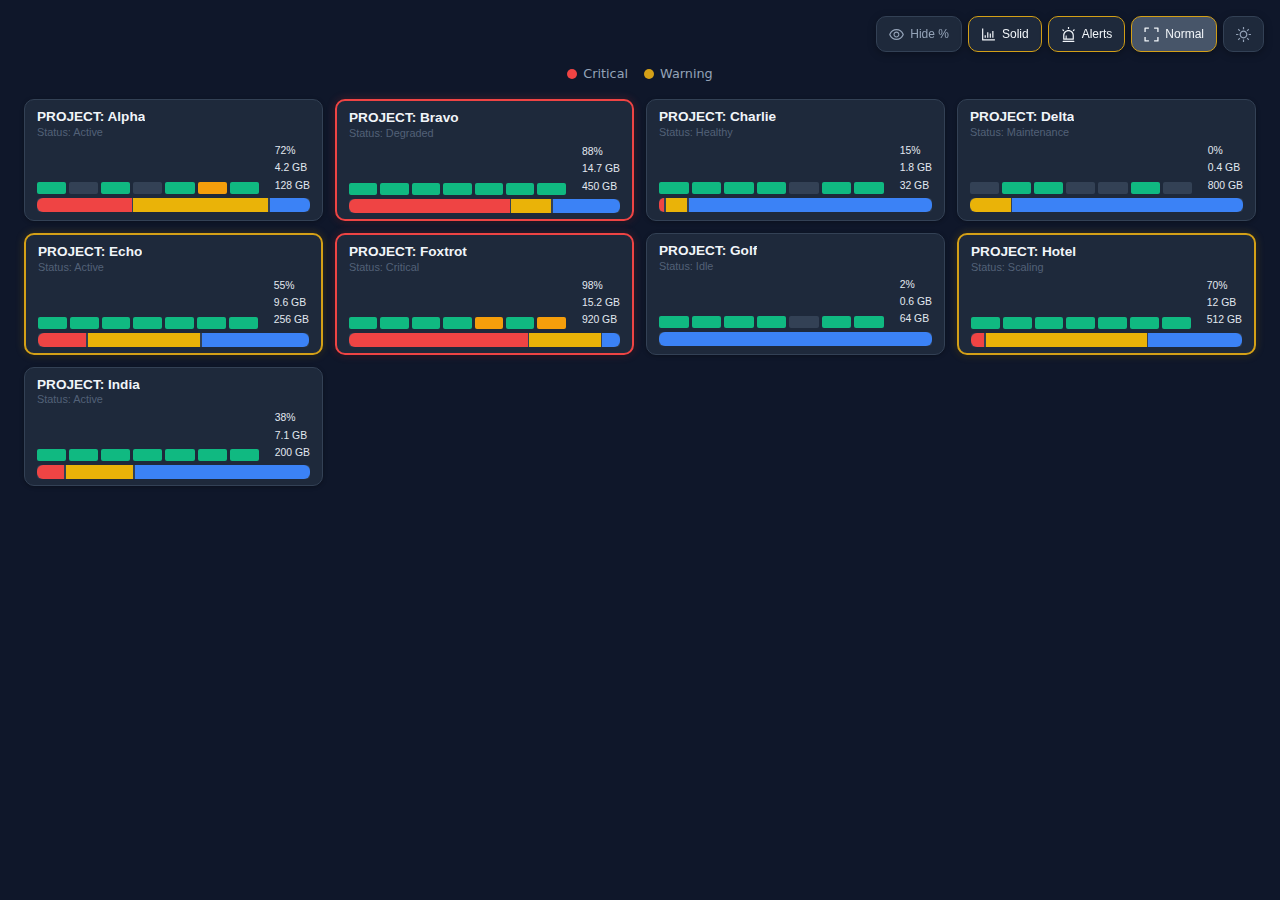
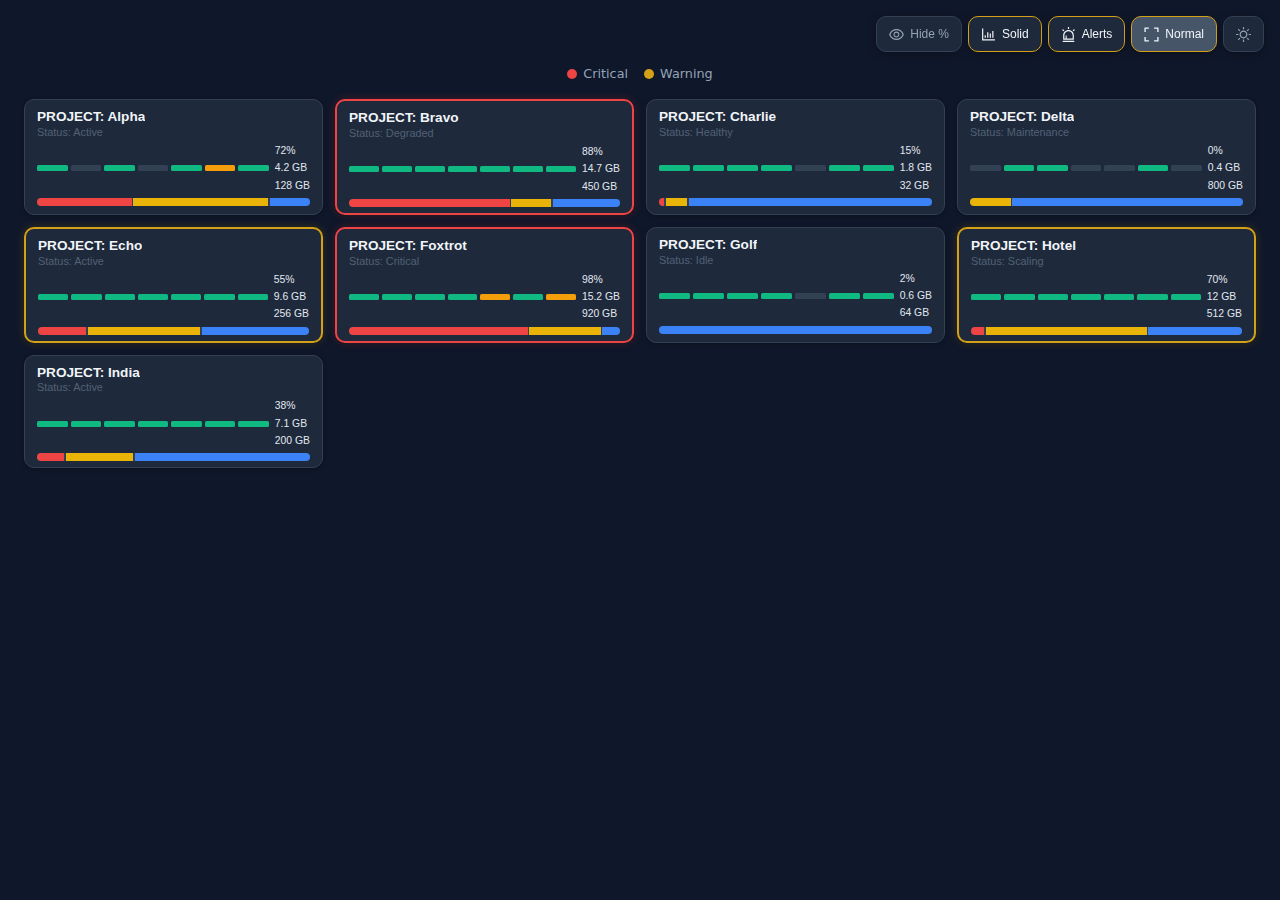
Make compact cards denser: thinner gauges, thinner bars, less empty space
- Reduce compact gauge bar height from 12px to 6px
- Reduce compact bottom segmented bar from 14px to 8px
- Reduce middle section gap and center-align in compact mode
- Update screenshots

https://claude.ai/code/session_018uFt2K4uPZLk9hC1RMM5Av

Changed region(s): [[0.0, 0.1867, 1.0, 0.56]]

diff --git a/src/components/StatusCard.css b/src/components/StatusCard.css
@@ -345,8 +345,8 @@
 .gauge-compact-bar {
   flex: 1;
   min-width: 0;
-  height: 12px;
-  border-radius: 2px;
+  height: 6px;
+  border-radius: 1.5px;
   transition: background 0.2s;
 }
 
@@ -375,8 +375,14 @@
 
 /* Compact bottom bar */
 .card-bottom-compact .segmented-bar {
-  height: 14px;
-  border-radius: 4px;
+  height: 8px;
+  border-radius: 3px;
+}
+
+/* Compact middle section — tighter gap, no wasted vertical space */
+.status-card-compact .card-middle {
+  gap: 6px;
+  align-items: center;
 }
 
 .card-bottom-compact .segment-label {
